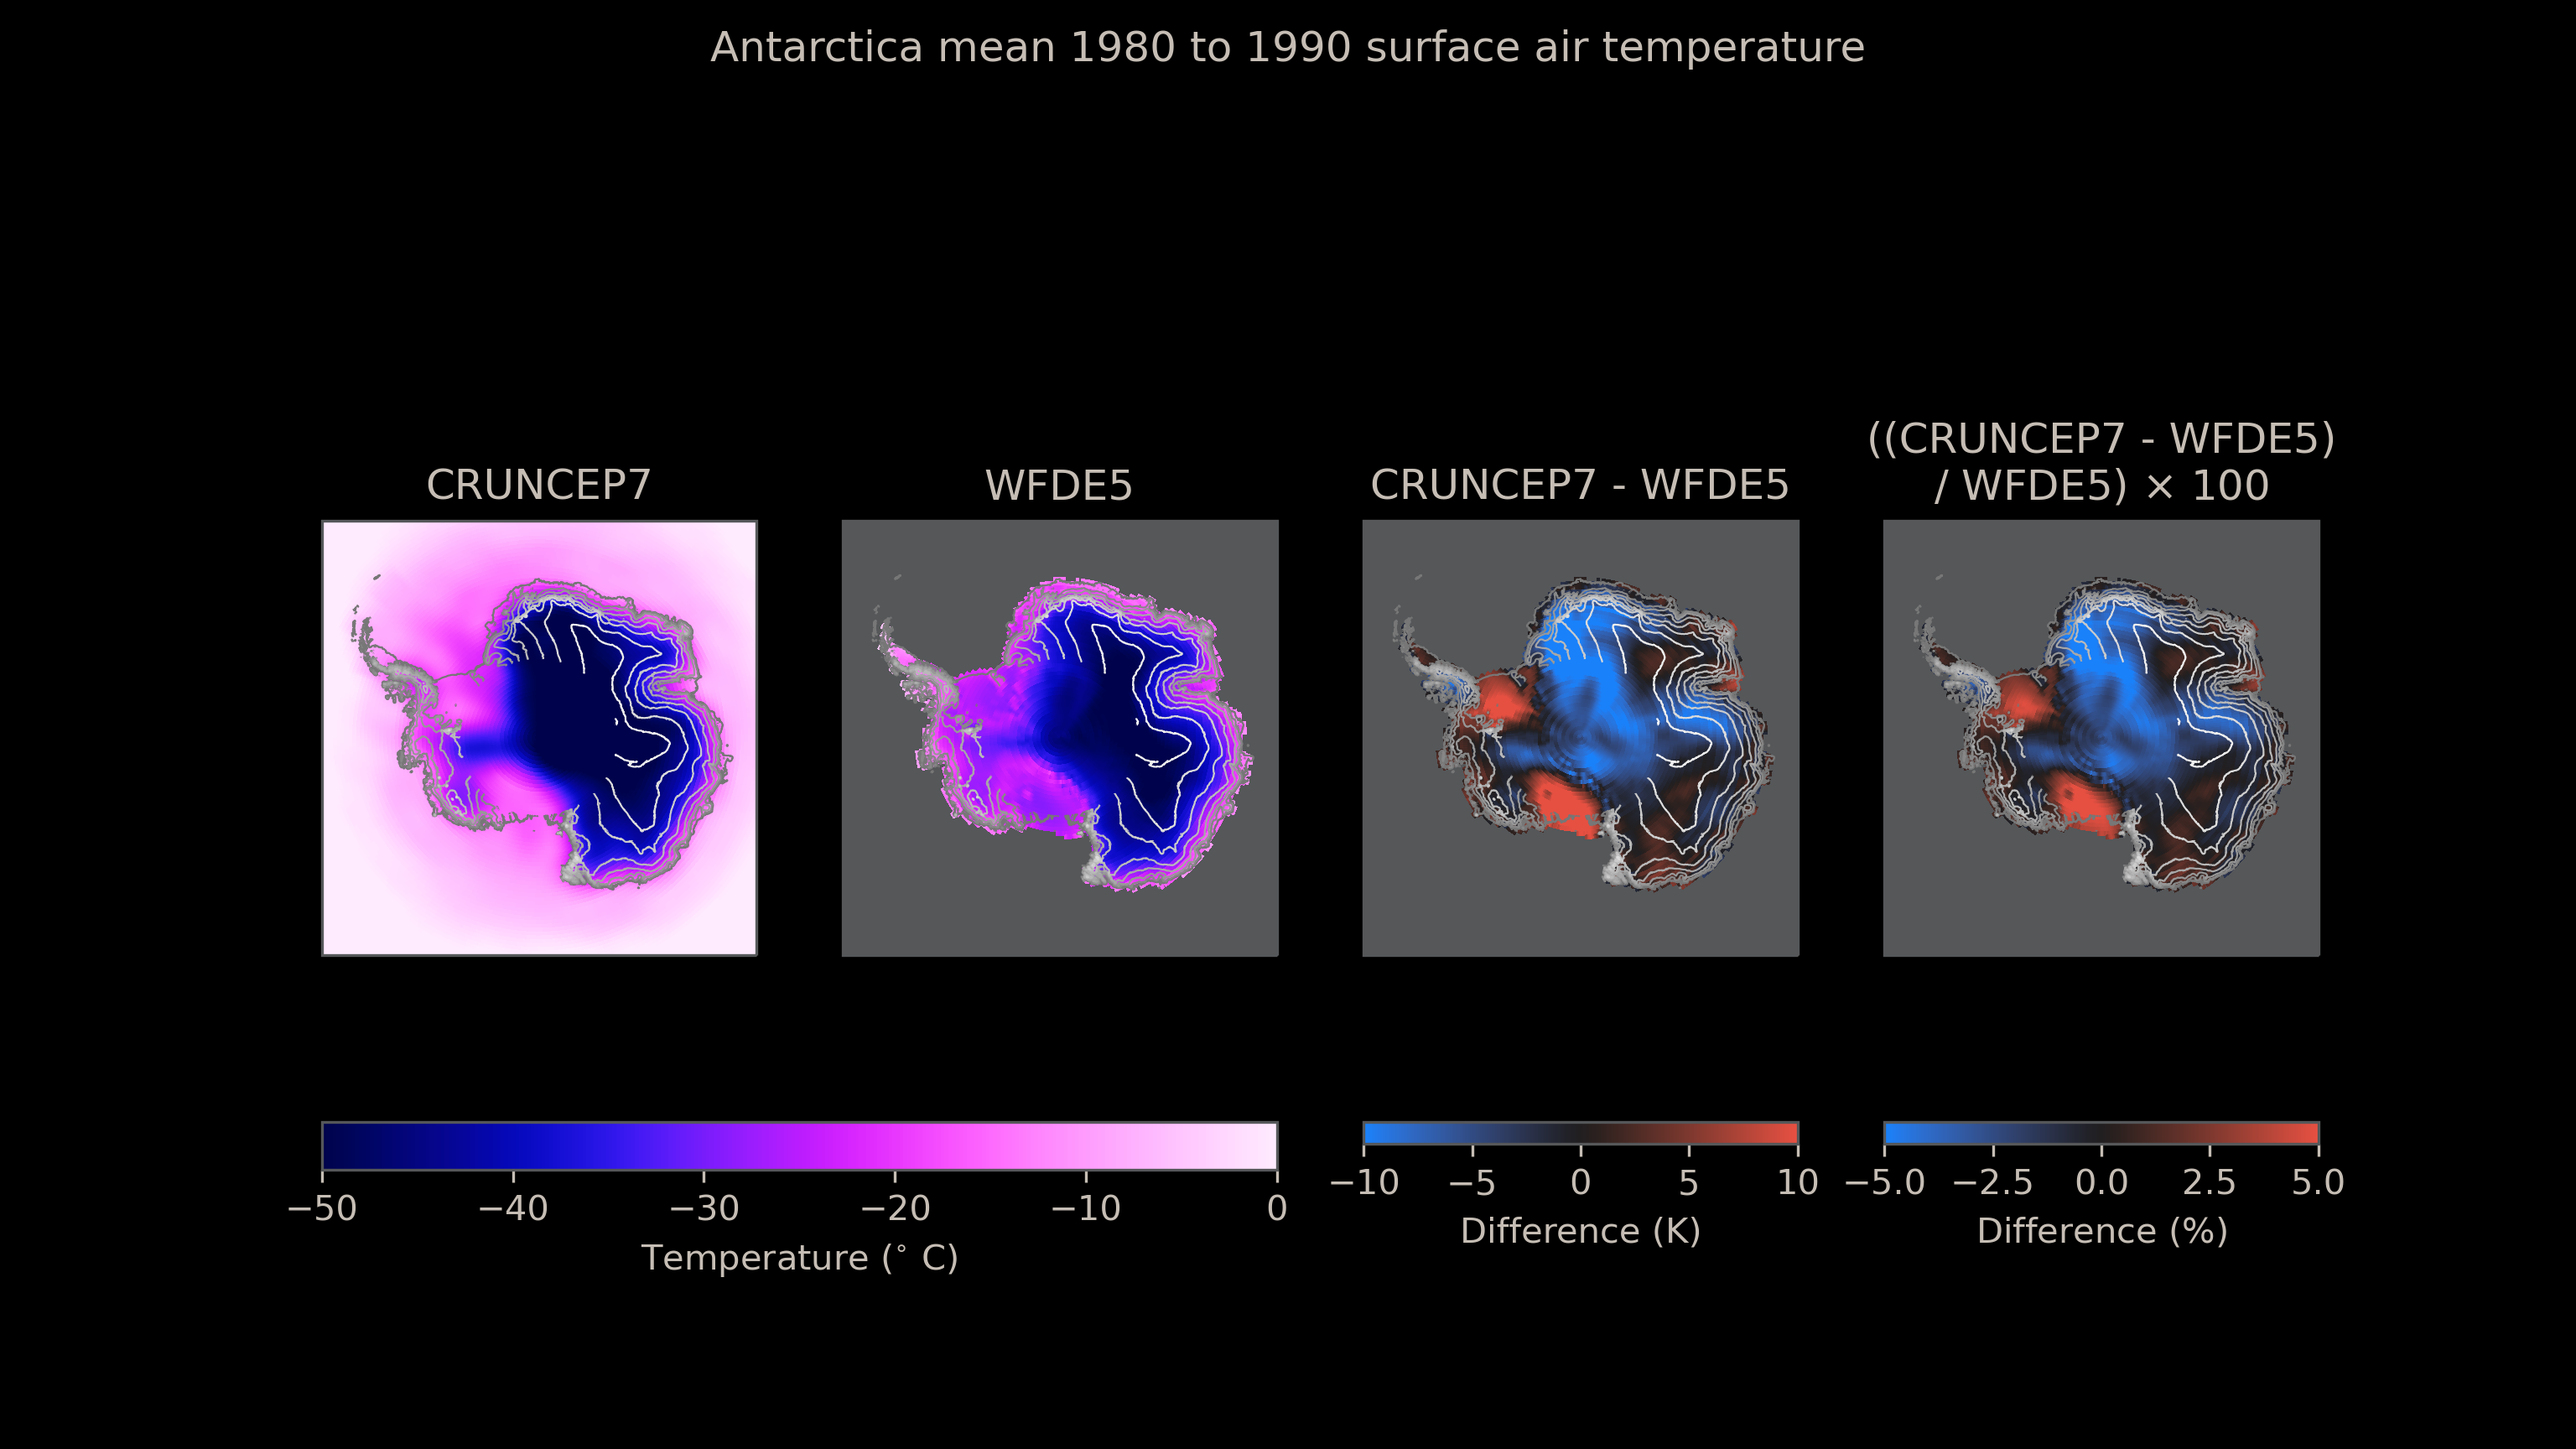
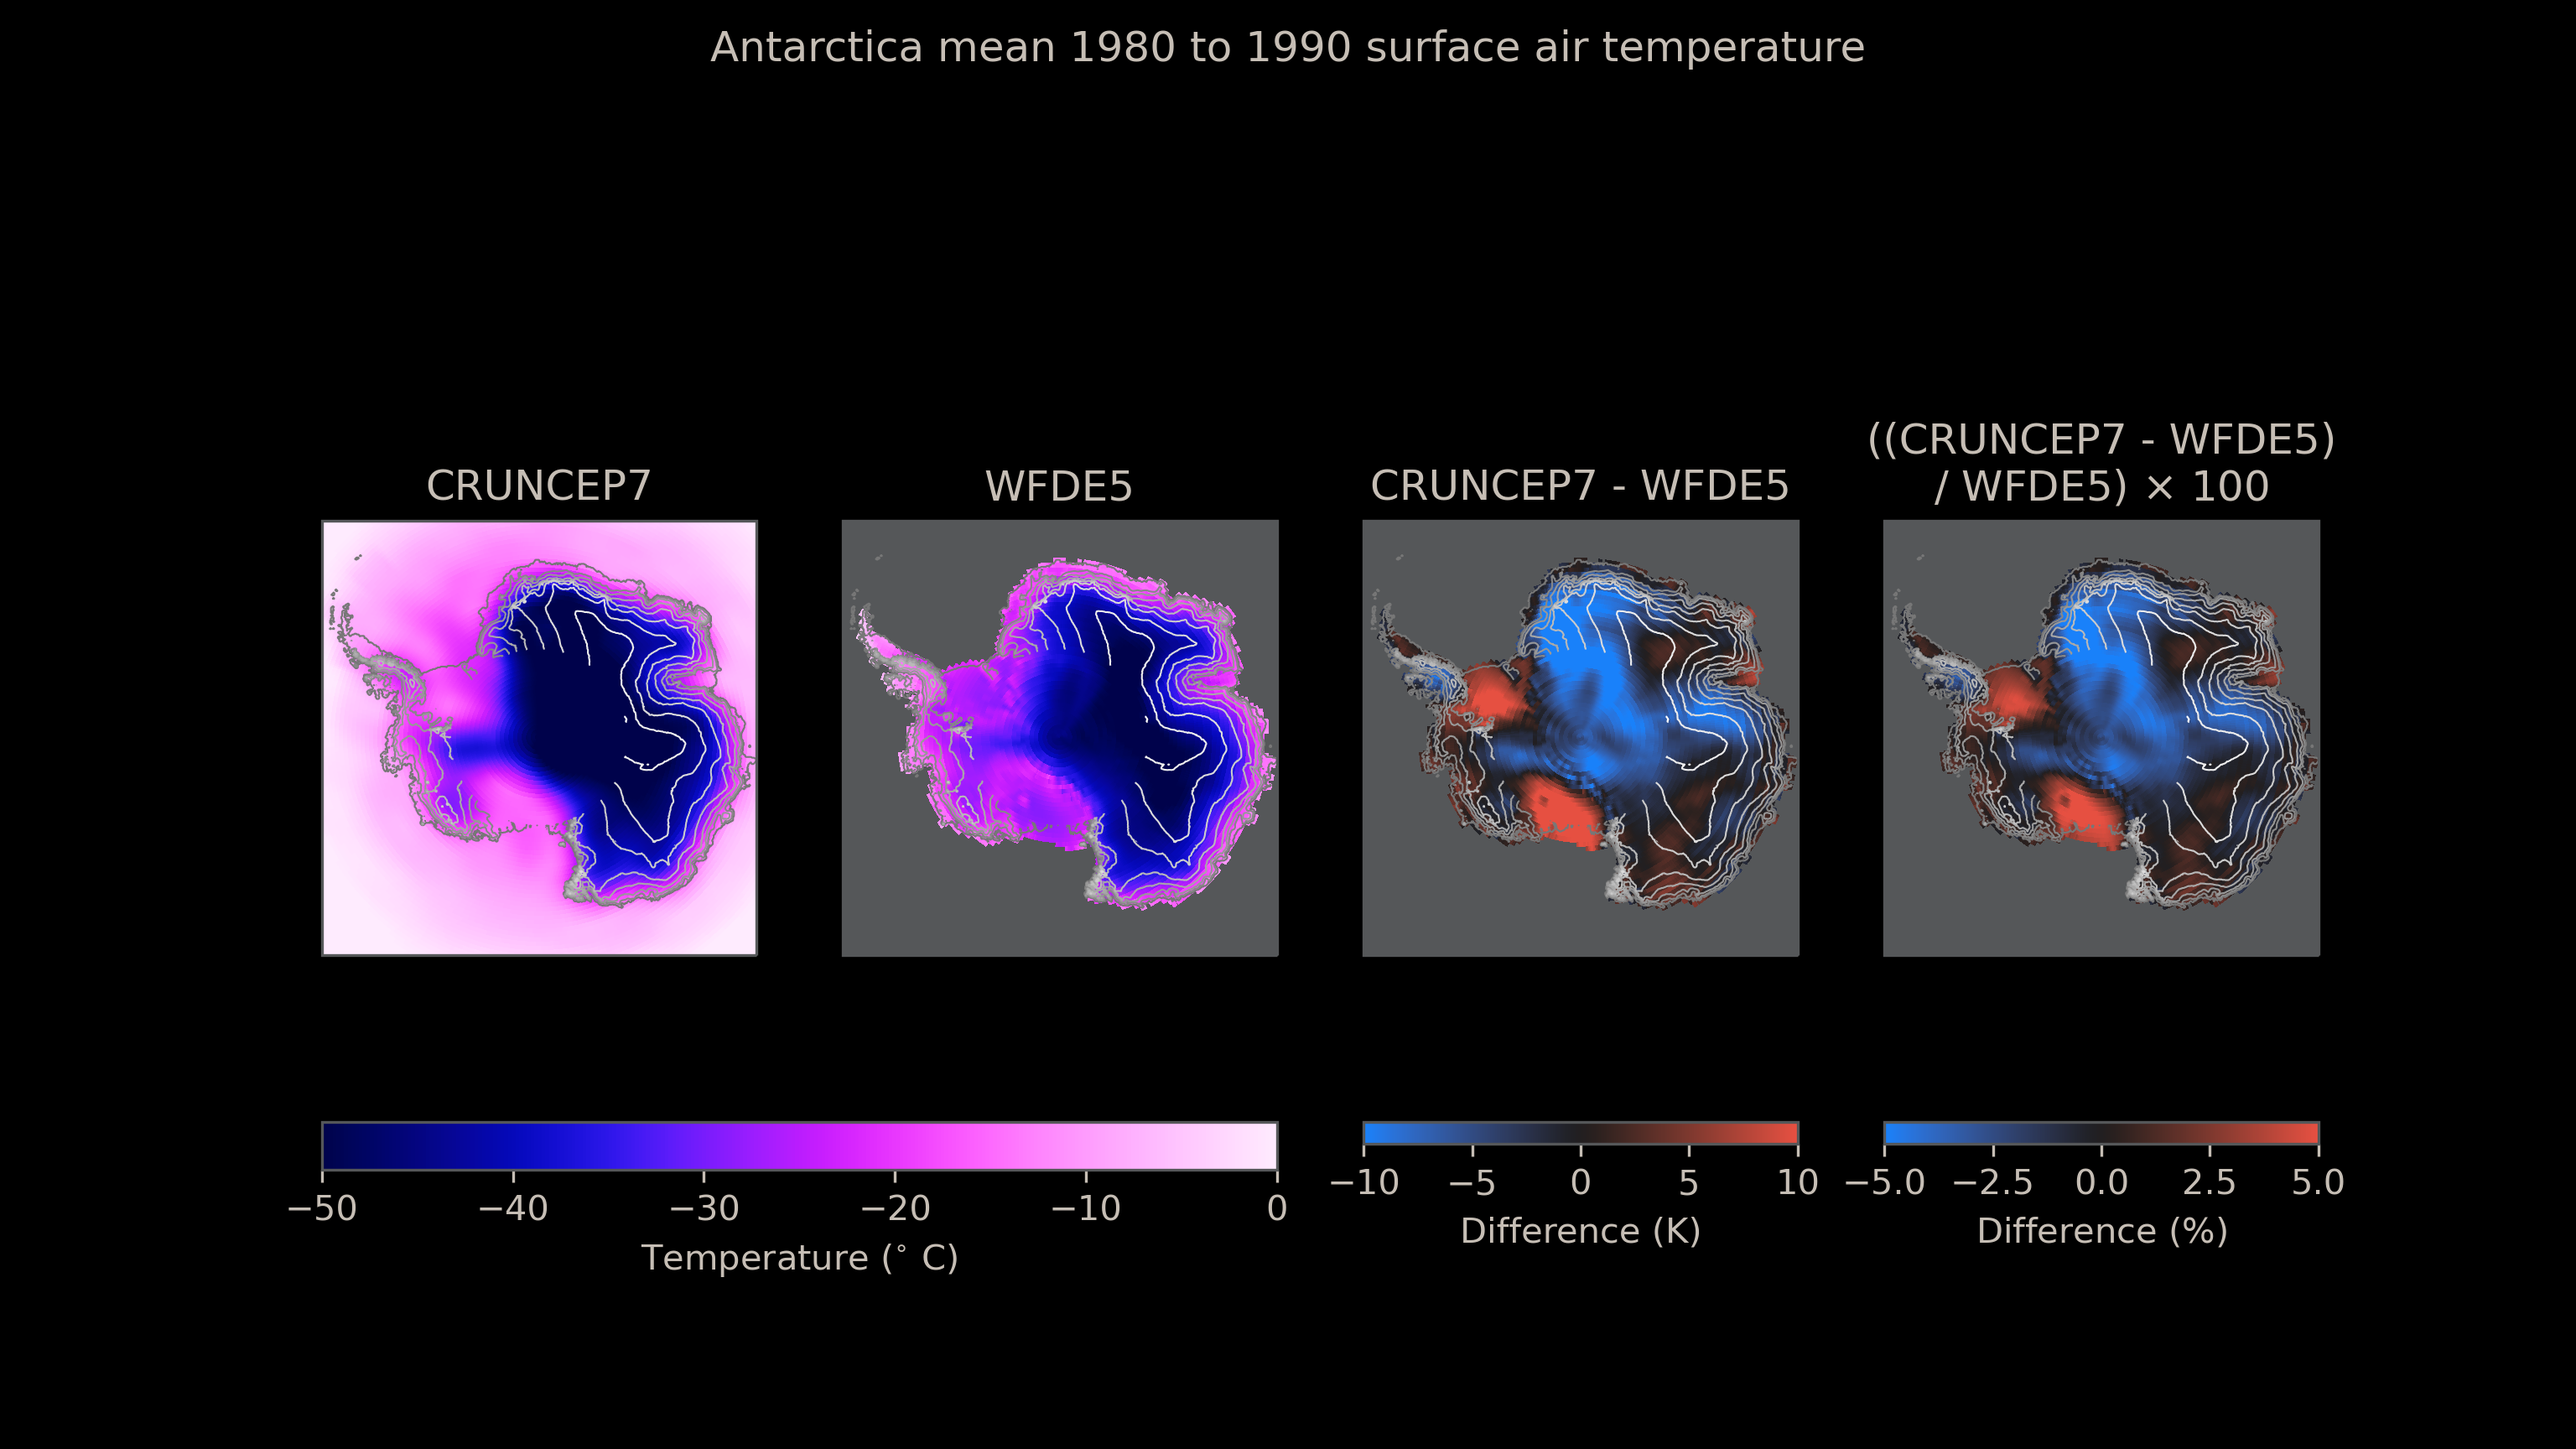
Changed pcolor to pcolormesh and fixed masking. Maps now much faster

Changed region(s): [[0.125, 0.3438, 0.5, 0.6562], [0.7188, 0.375, 0.9062, 0.625], [0.5312, 0.375, 0.7188, 0.625]]

diff --git a/schneida_tools/analysis.py b/schneida_tools/analysis.py
@@ -16,9 +16,9 @@ from schneida_tools import ais_dem
 import ipdb
 
 TFRZ = 273.15 # K
-GRIS_EXTENT = (-90, 15, 45, 90)
-NH_EXTENT = (-360, 0, 0, 90)
-AIS_EXTENT = ((-360, 0, -90, -45))
+GRIS_EXTENT = (0, 360, 45, 90)
+NH_EXTENT = (0, 360, -30, 90)
+AIS_EXTENT = (0, 360, -90, -45)
 
 def set_map_titles(axes):
     axes[0].set_title('CRUNCEP7')
@@ -36,10 +36,10 @@ def mask_vals(longxy, latixy, var_arr, greenland=False, antarctica=False):
     else:
         extent = NH_EXTENT
         
-    np.ma.masked_where(longxy < 360 + extent[0], var_arr, copy=False)
-    np.ma.masked_where(longxy > 360 + extent[1], var_arr, copy=False)
-    np.ma.masked_where(latixy < extent[2], var_arr, copy=False)
-    np.ma.masked_where(latixy > extent[3], var_arr, copy=False)
+    var_arr = np.ma.masked_where(longxy < extent[0], var_arr)
+    var_arr = np.ma.masked_where(longxy > extent[1], var_arr)
+    var_arr = np.ma.masked_where(latixy < extent[2], var_arr)
+    var_arr = np.ma.masked_where(latixy > extent[3], var_arr)
     
     return var_arr
 
@@ -86,7 +86,7 @@ class Analysis(object):
         longxy = cruncep_mean_t_rootgrp.variables['LONGXY'][:]
         latixy = cruncep_mean_t_rootgrp.variables['LATIXY'][:]
     
-        cruncep_quad_mesh = axes[0].pcolor(longxy, latixy,
+        cruncep_quad_mesh = axes[0].pcolormesh(longxy.data, latixy.data,
                                            np.ma.clip(mask_vals(longxy,
                                                                 latixy,
                                                                 cruncep_time_mean_tc,
@@ -97,7 +97,7 @@ class Analysis(object):
                                            vmin=degc_min, vmax=degc_max,
                                            transform=ccrs.PlateCarree())
     
-        wfde5_quad_mesh = axes[1].pcolor(longxy, latixy,
+        wfde5_quad_mesh = axes[1].pcolormesh(longxy.data, latixy.data,
                                          np.ma.clip(mask_vals(longxy,
                                                               latixy,
                                                               wfde5_time_mean_tc,
@@ -108,7 +108,7 @@ class Analysis(object):
                                          vmin=degc_min, vmax=degc_max,
                                          transform=ccrs.PlateCarree())
     
-        diffs_quad_mesh = axes[2].pcolor(longxy, latixy,
+        diffs_quad_mesh = axes[2].pcolormesh(longxy.data, latixy.data,
                                          np.ma.clip(mask_vals(longxy,
                                                               latixy,
                                                               time_mean_tc_diffs,
@@ -119,7 +119,7 @@ class Analysis(object):
                                          vmin=-10, vmax=10,
                                          transform=ccrs.PlateCarree())
                     
-        rel_diffs_quad_mesh = axes[3].pcolor(longxy, latixy,
+        rel_diffs_quad_mesh = axes[3].pcolormesh(longxy.data, latixy.data,
                                              np.ma.clip(100. *
                                                         mask_vals(longxy,
                                                                   latixy,
@@ -130,7 +130,6 @@ class Analysis(object):
                                              shading='nearest', cmap='cet_CET_D4',
                                              vmin=-5, vmax=5,
                                              transform=ccrs.PlateCarree())
-
         # Colorbar
         fig = plt.gcf()
         cruncep_cbar = fig.colorbar(cruncep_quad_mesh,
@@ -160,8 +159,7 @@ class Analysis(object):
     
             # Set the figure title
             plt.suptitle('Greenland mean 1980 to 1990 surface air temperature')
-            plt.savefig(path.join('results', 'greenland_tair_cruncep_vs_wfde5.png'),
-                        dpi=300)
+            savefig_name = path.join('results', 'greenland_tair_cruncep_vs_wfde5.png')
         elif self.antarctica:
             # Add elevation contours
             dem = ais_dem.AisDem()
@@ -171,17 +169,17 @@ class Analysis(object):
                 
             # Set the figure title
             plt.suptitle('Antarctica mean 1980 to 1990 surface air temperature')
-            plt.savefig(path.join('results', 'antarctica_tair_cruncep_vs_wfde5.png'),
-                        dpi=300)
+            savefig_name = path.join('results', 'antarctica_tair_cruncep_vs_wfde5.png')
         else:
             for i, ax in enumerate(axes):
                 # Add elevation contours
                 coordinate_space.draw_elevation_contours(ax)
             # Set the figure title
             plt.suptitle('Northern Hemisphere mean 1980 to 1990 surface air temperature')
-            plt.savefig(path.join('results', 'nh_tair_cruncep_vs_wfde5.png'),
-                        dpi=300)
-    
+            savefig_name = path.join('results', 'nh_tair_cruncep_vs_wfde5.png')
+        
+        print('Writing temperature maps to %s' % savefig_name)
+        plt.savefig(savefig_name, dpi=300)
         # Close figure and files
         plt.close()
         cruncep_mean_t_rootgrp.close()
@@ -237,7 +235,7 @@ class Analysis(object):
         longxy = cruncep_mean_precip_rootgrp.variables['LONGXY'][:]
         latixy = cruncep_mean_precip_rootgrp.variables['LATIXY'][:]
     
-        cruncep_quad_mesh = axes[0].pcolor(longxy, latixy,
+        cruncep_quad_mesh = axes[0].pcolormesh(longxy.data, latixy.data,
                                            np.ma.clip(mask_vals(longxy, latixy,
                                                                 cruncep_time_mean_precip,
                                                                 greenland=self.greenland,
@@ -247,7 +245,7 @@ class Analysis(object):
                                            vmin=cm_per_year_min, vmax=cm_per_year_max,
                                            transform=ccrs.PlateCarree())
                                        
-        wfde5_quad_mesh = axes[1].pcolor(longxy, latixy,
+        wfde5_quad_mesh = axes[1].pcolormesh(longxy.data, latixy.data,
                                          np.ma.clip(mask_vals(longxy, latixy,
                                                               wfde5_time_mean_precip,
                                                               greenland=self.greenland,
@@ -257,7 +255,7 @@ class Analysis(object):
                                          vmin=cm_per_year_min, vmax=cm_per_year_max,
                                          transform=ccrs.PlateCarree())
     
-        diffs_quad_mesh = axes[2].pcolor(longxy, latixy,
+        diffs_quad_mesh = axes[2].pcolormesh(longxy.data, latixy.data,
                                          np.ma.clip(mask_vals(longxy, latixy,
                                                               time_mean_precip_diffs,
                                                               greenland=self.greenland,
@@ -267,7 +265,7 @@ class Analysis(object):
                                          vmin=-50, vmax=50,
                                          transform=ccrs.PlateCarree())
                                      
-        rel_diffs_quad_mesh = axes[3].pcolor(longxy, latixy,
+        rel_diffs_quad_mesh = axes[3].pcolormesh(longxy.data, latixy.data,
                                              np.ma.clip(100. *
                                                         mask_vals(longxy, latixy,
                                                                   time_mean_precip_diffs_rel,
@@ -277,7 +275,6 @@ class Analysis(object):
                                              shading='nearest', cmap='cet_CET_D6_r',
                                              vmin=-50, vmax=50,
                                              transform=ccrs.PlateCarree())
-    
         # Colorbar
         fig = plt.gcf()
         cruncep_cbar = fig.colorbar(cruncep_quad_mesh,
@@ -307,8 +304,7 @@ class Analysis(object):
             
             # Set the figure title
             plt.suptitle('Greenland mean 1980 to 1990 precipitation')
-            plt.savefig(path.join('results', 'greenland_precip_cruncep_vs_wfde5.png'),
-                        dpi=300)
+            savefig_name = path.join('results', 'greenland_precip_cruncep_vs_wfde5.png')
         elif self.antarctica:
             # Add elevation contours
             dem = ais_dem.AisDem()
@@ -317,8 +313,7 @@ class Analysis(object):
                 dem.draw_contours(ax)
             # Set the figure title
             plt.suptitle('Antarctica mean 1980 to 1990 precipitation')
-            plt.savefig(path.join('results', 'antarctica_precip_cruncep_vs_wfde5.png'),
-                        dpi=300)
+            savefig_name = path.join('results', 'antarctica_precip_cruncep_vs_wfde5.png')
         else:
             # Add elevation contours
             for i, ax in enumerate(axes):
@@ -326,9 +321,10 @@ class Analysis(object):
 
             # Set the figure title
             plt.suptitle('Northern Hemisphere mean 1980 to 1990 precipitation')
-            plt.savefig(path.join('results', 'nh_precip_cruncep_vs_wfde5.png'),
-                        dpi=300)
-    
+            savefig_name = path.join('results', 'nh_precip_cruncep_vs_wfde5.png')
+        
+        print('Writing precipitation maps to %s' % savefig_name)
+        plt.savefig(savefig_name, dpi=300)
         # Close figure and files
         plt.close()
         wfde5_mean_rainf_rootgrp.close()

diff --git a/schneida_tools/ais_dem.py b/schneida_tools/ais_dem.py
@@ -64,7 +64,7 @@ class AisDem(object):
     def draw_contours(self, ax, filename=os.path.join('data_clean',
                                                       "krigged_dem_nsidc.nc"),
                       errormap=os.path.join('data_clean', "krigged_dem_errormap_nsidc.nc"),
-                      downsample=1,
+                      downsample=10,
                       cmap=ListedColormap(cc.linear_grey_0_100_c0)):
         aisdem = Dataset(filename)
         aisdem_errormap = Dataset(errormap)
@@ -129,7 +129,7 @@ class AisDem(object):
         ax1 = plt.axes(projection=ccrs.LambertAzimuthalEqualArea(
                        central_longitude=0.0, central_latitude=-90))
         # Limit the map to -60 degrees latitude and below.
-        ax1.set_extent([-180, 180, -90, -62], ccrs.PlateCarree())
+        ax1.set_extent([-180, 180, -90, -65], ccrs.PlateCarree())
 
         return ax1
     

diff --git a/schneida_tools/coordinate_space.py b/schneida_tools/coordinate_space.py
@@ -63,7 +63,7 @@ def four_map_horizontal_comparison(greenland=False,
         map_lon_min = -180
         map_lon_max=180
         map_lat_min=-90
-        map_lat_max=-62
+        map_lat_max=-65
         map_lat_0=-90
         map_lon_0=0
     else: # Northern hempiphere
